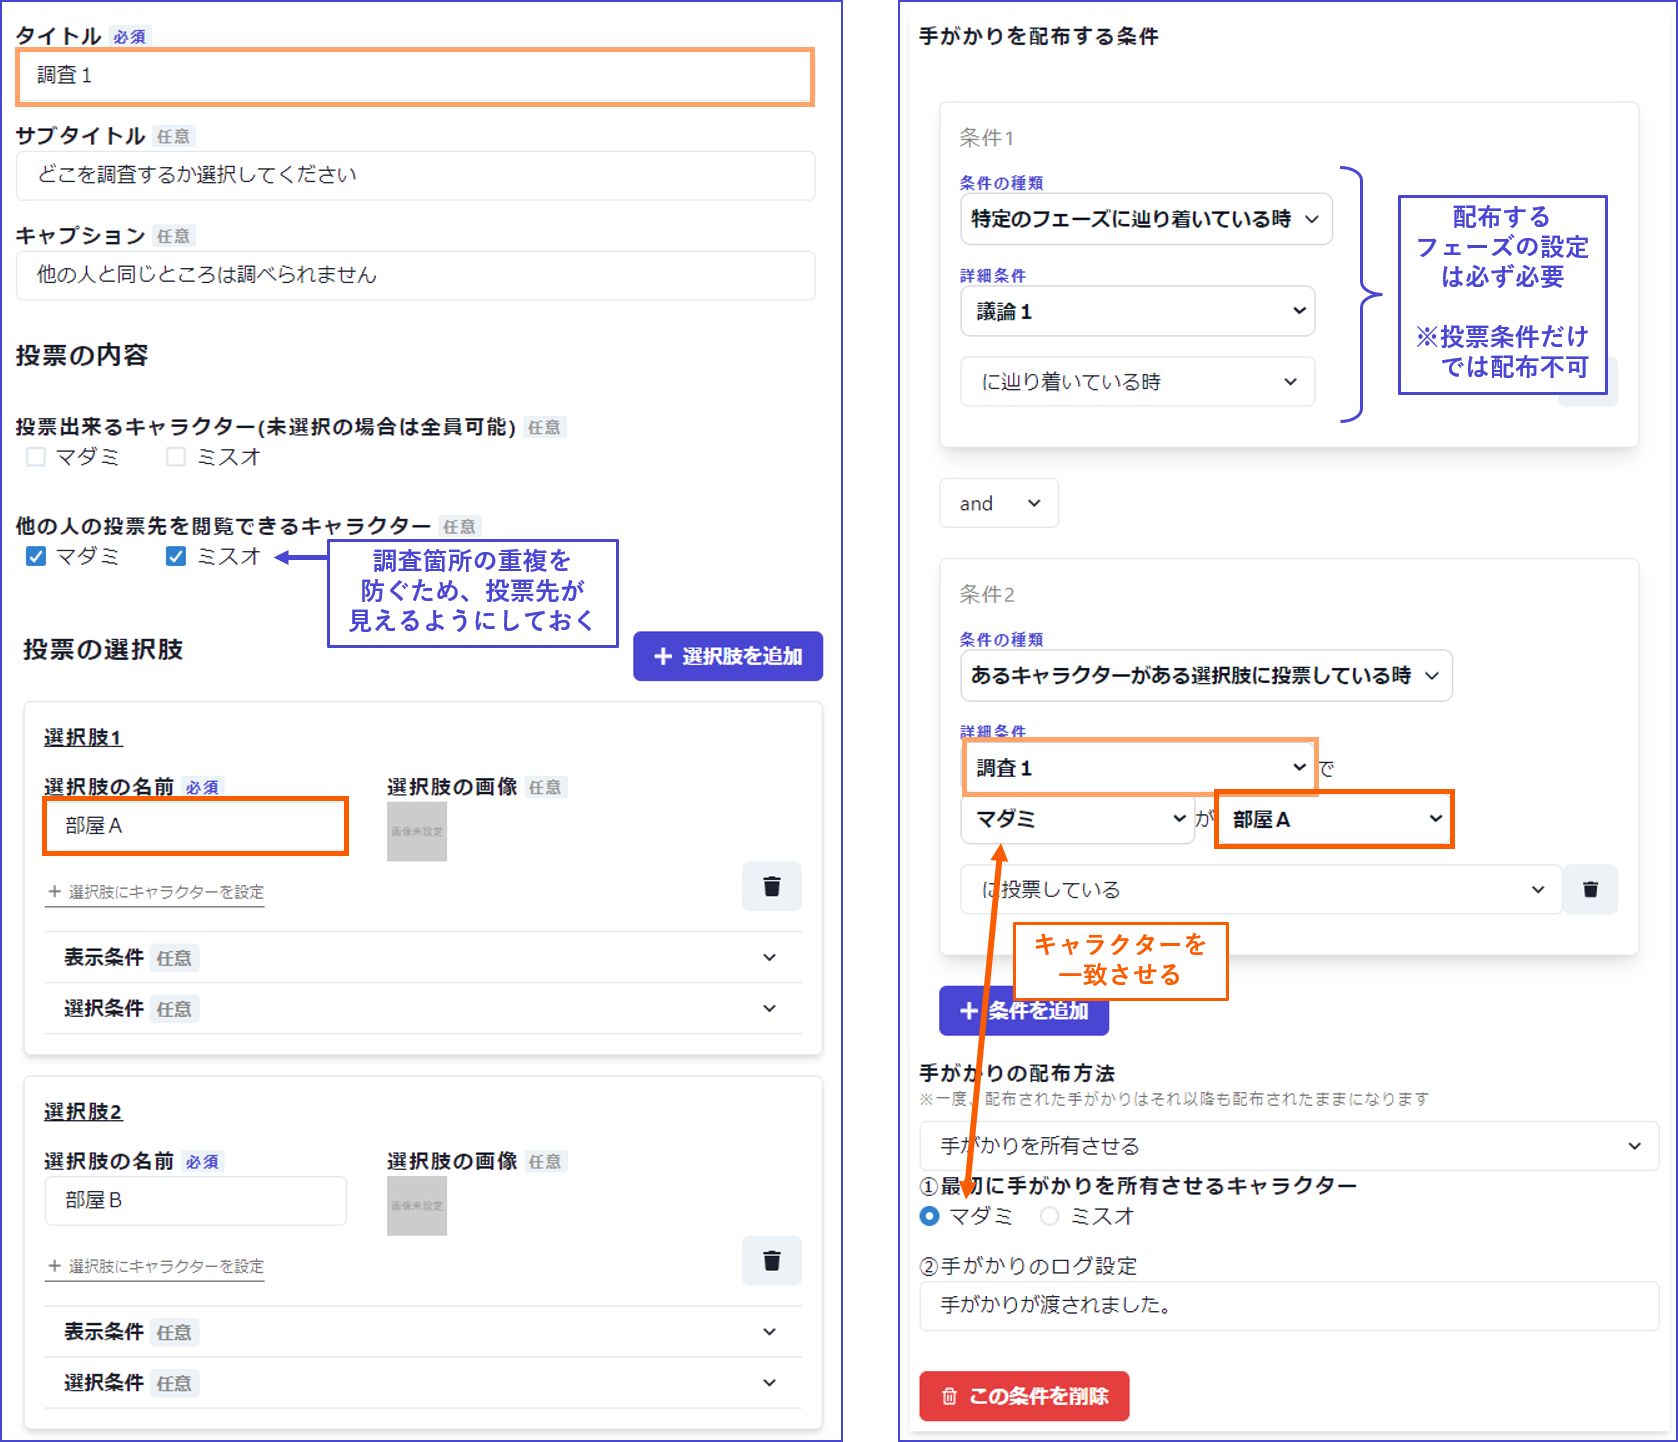
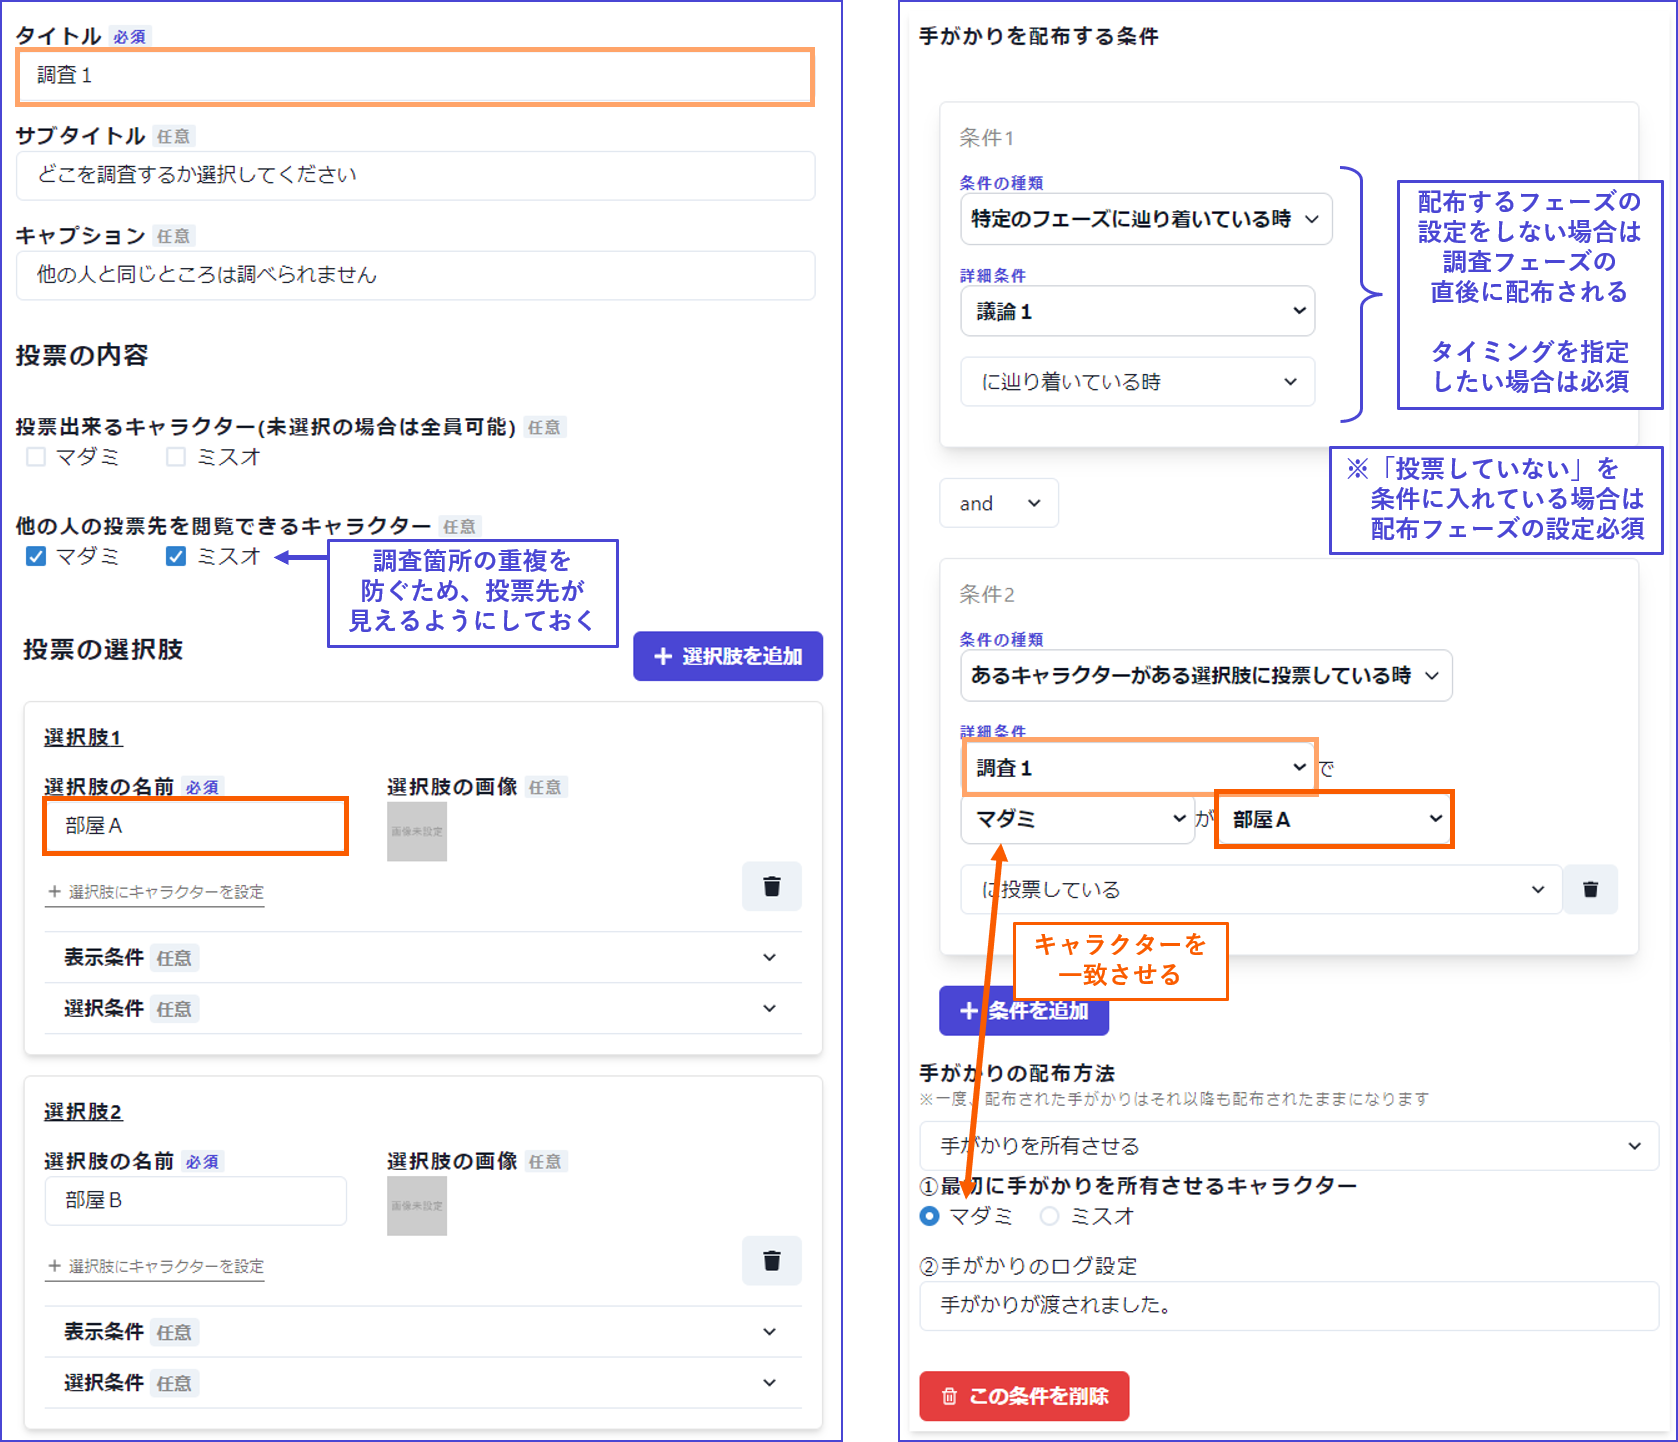
investigation

Changed region(s): [[0.8057, 0.1248, 0.9917, 0.3745]]

diff --git a/advanced/investigation.md b/advanced/investigation.md
@@ -36,7 +36,7 @@
 
 | 項目                 | 内容                           | 詳細             |
 | -------------------- | ----------------------------- | ------------------------------------- |
-| 条件１    | 特定のフェーズに辿り着いている時 | 手がかりを配布するフェーズです。<br>①で作成した投票フェーズの直後のフェーズがよいでしょう。 |
+| 条件１（必要な場合）    | 特定のフェーズに辿り着いている時 | 手がかりを配布するフェーズです。<br>連続する投票フェーズのうち一番最後のフェーズや議論フェーズがよいでしょう。 |
 | 条件２   | あるキャラクターがある選択肢に投票している時 | ①で作成した投票フェーズにて、あるキャラクターが該当する調査箇所に投票しているという条件を設定します。    |
 | 手がかりの配布方法　　   | 手がかりを所有させる  | －       |
 | 最初に手がかりを所有させるキャラクター       | キャラクターを選択  | 条件２のキャラクターと一致させます。 |
